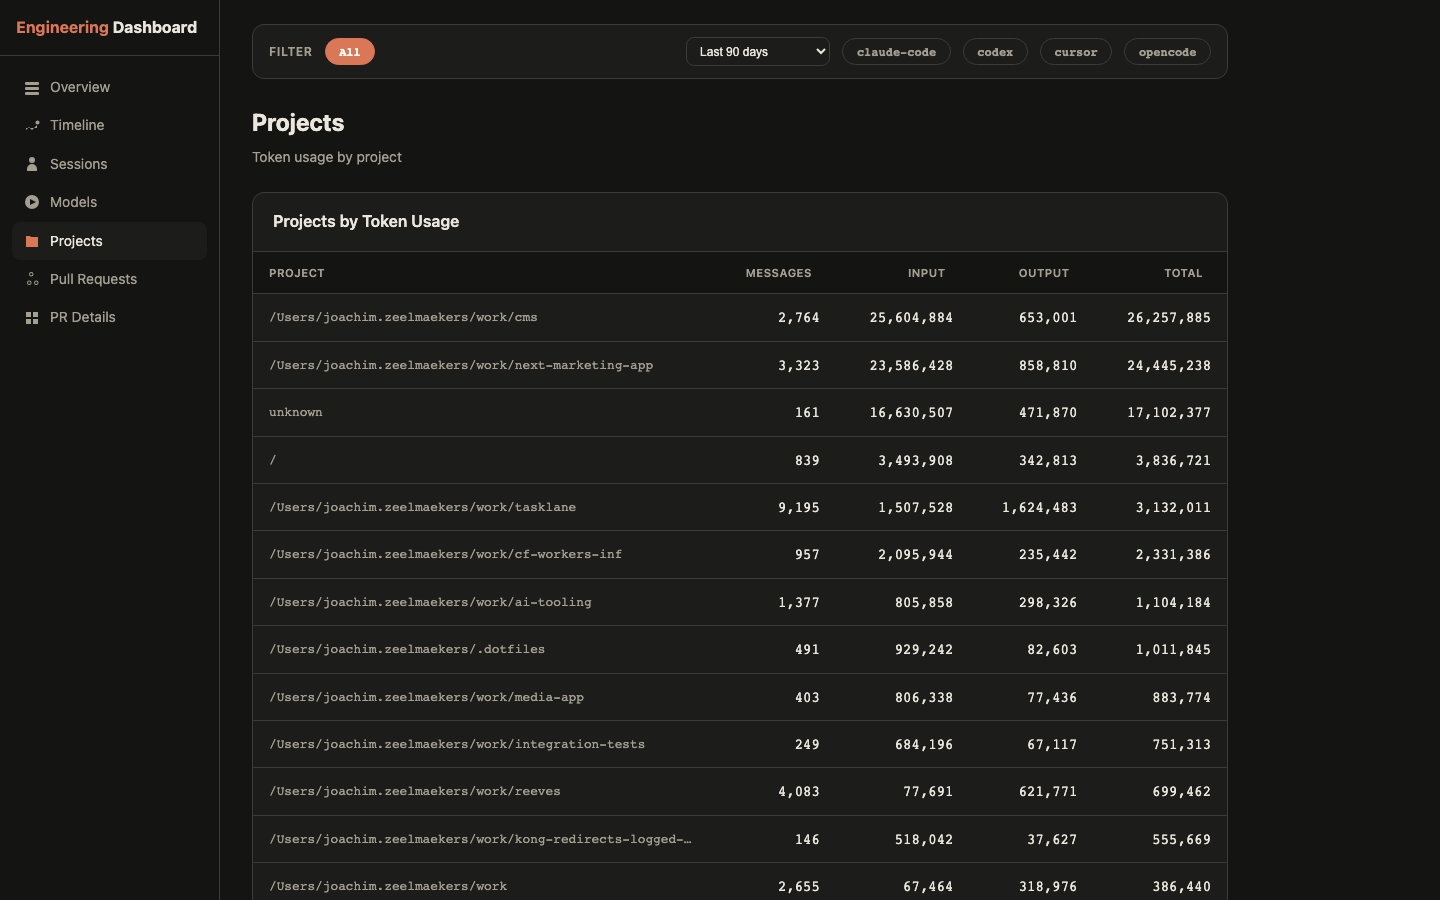
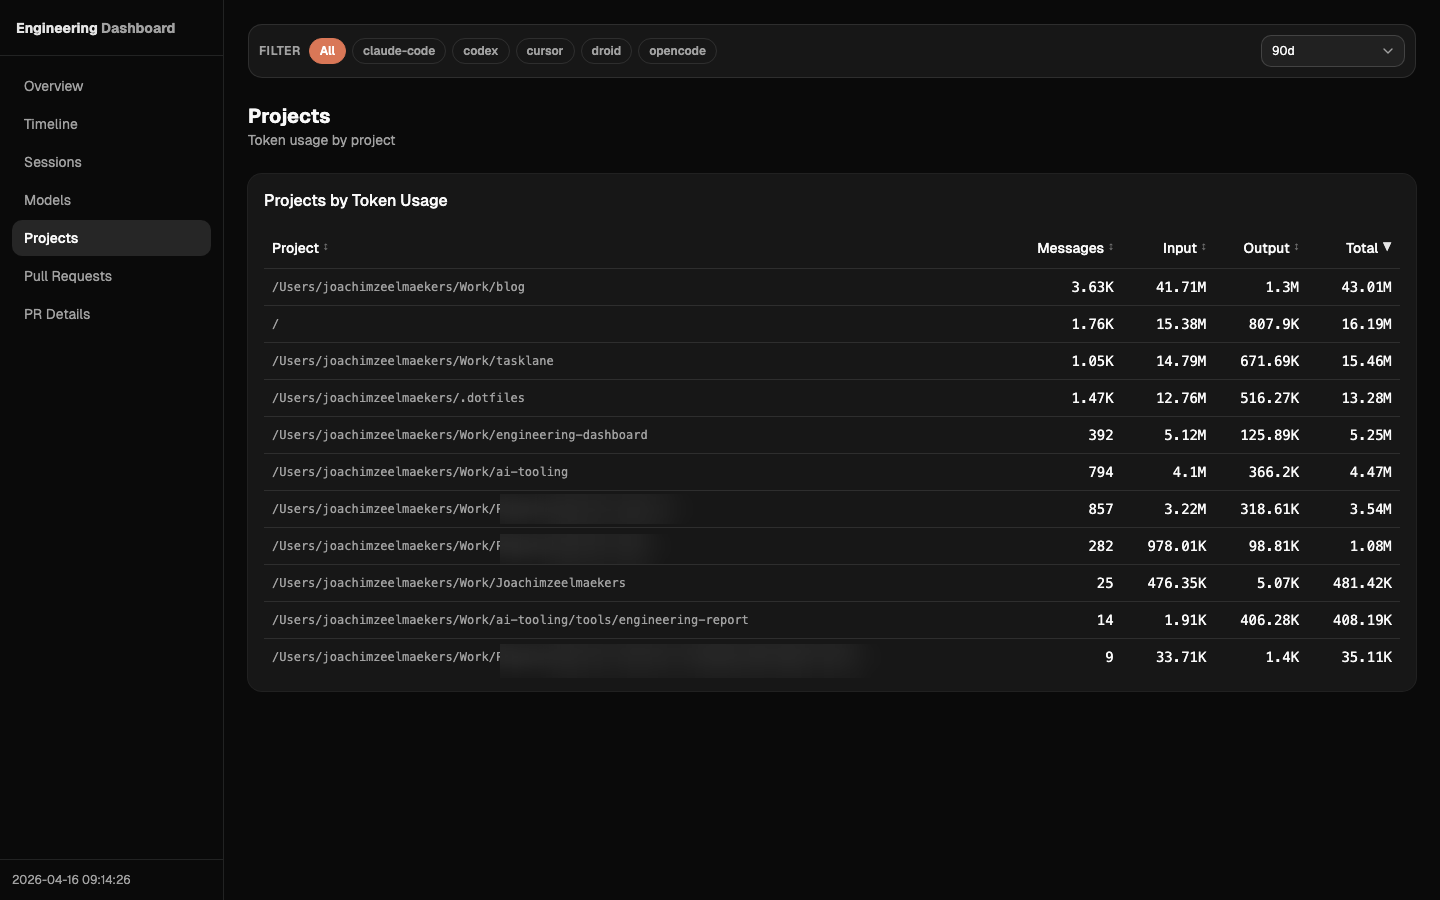
docs: refresh and sanitize dashboard screenshots

diff --git a/README.md b/README.md
@@ -10,6 +10,10 @@ Generate a local shadcn/Astro dashboard with AI tooling usage and GitHub contrib
 
 ![Sessions](docs/screenshots/sessions.png)
 
+![Models](docs/screenshots/models.png)
+
+![Projects](docs/screenshots/projects.png)
+
 ## What it collects
 
 - Provider usage (messages, sessions, token usage, estimated cost)
